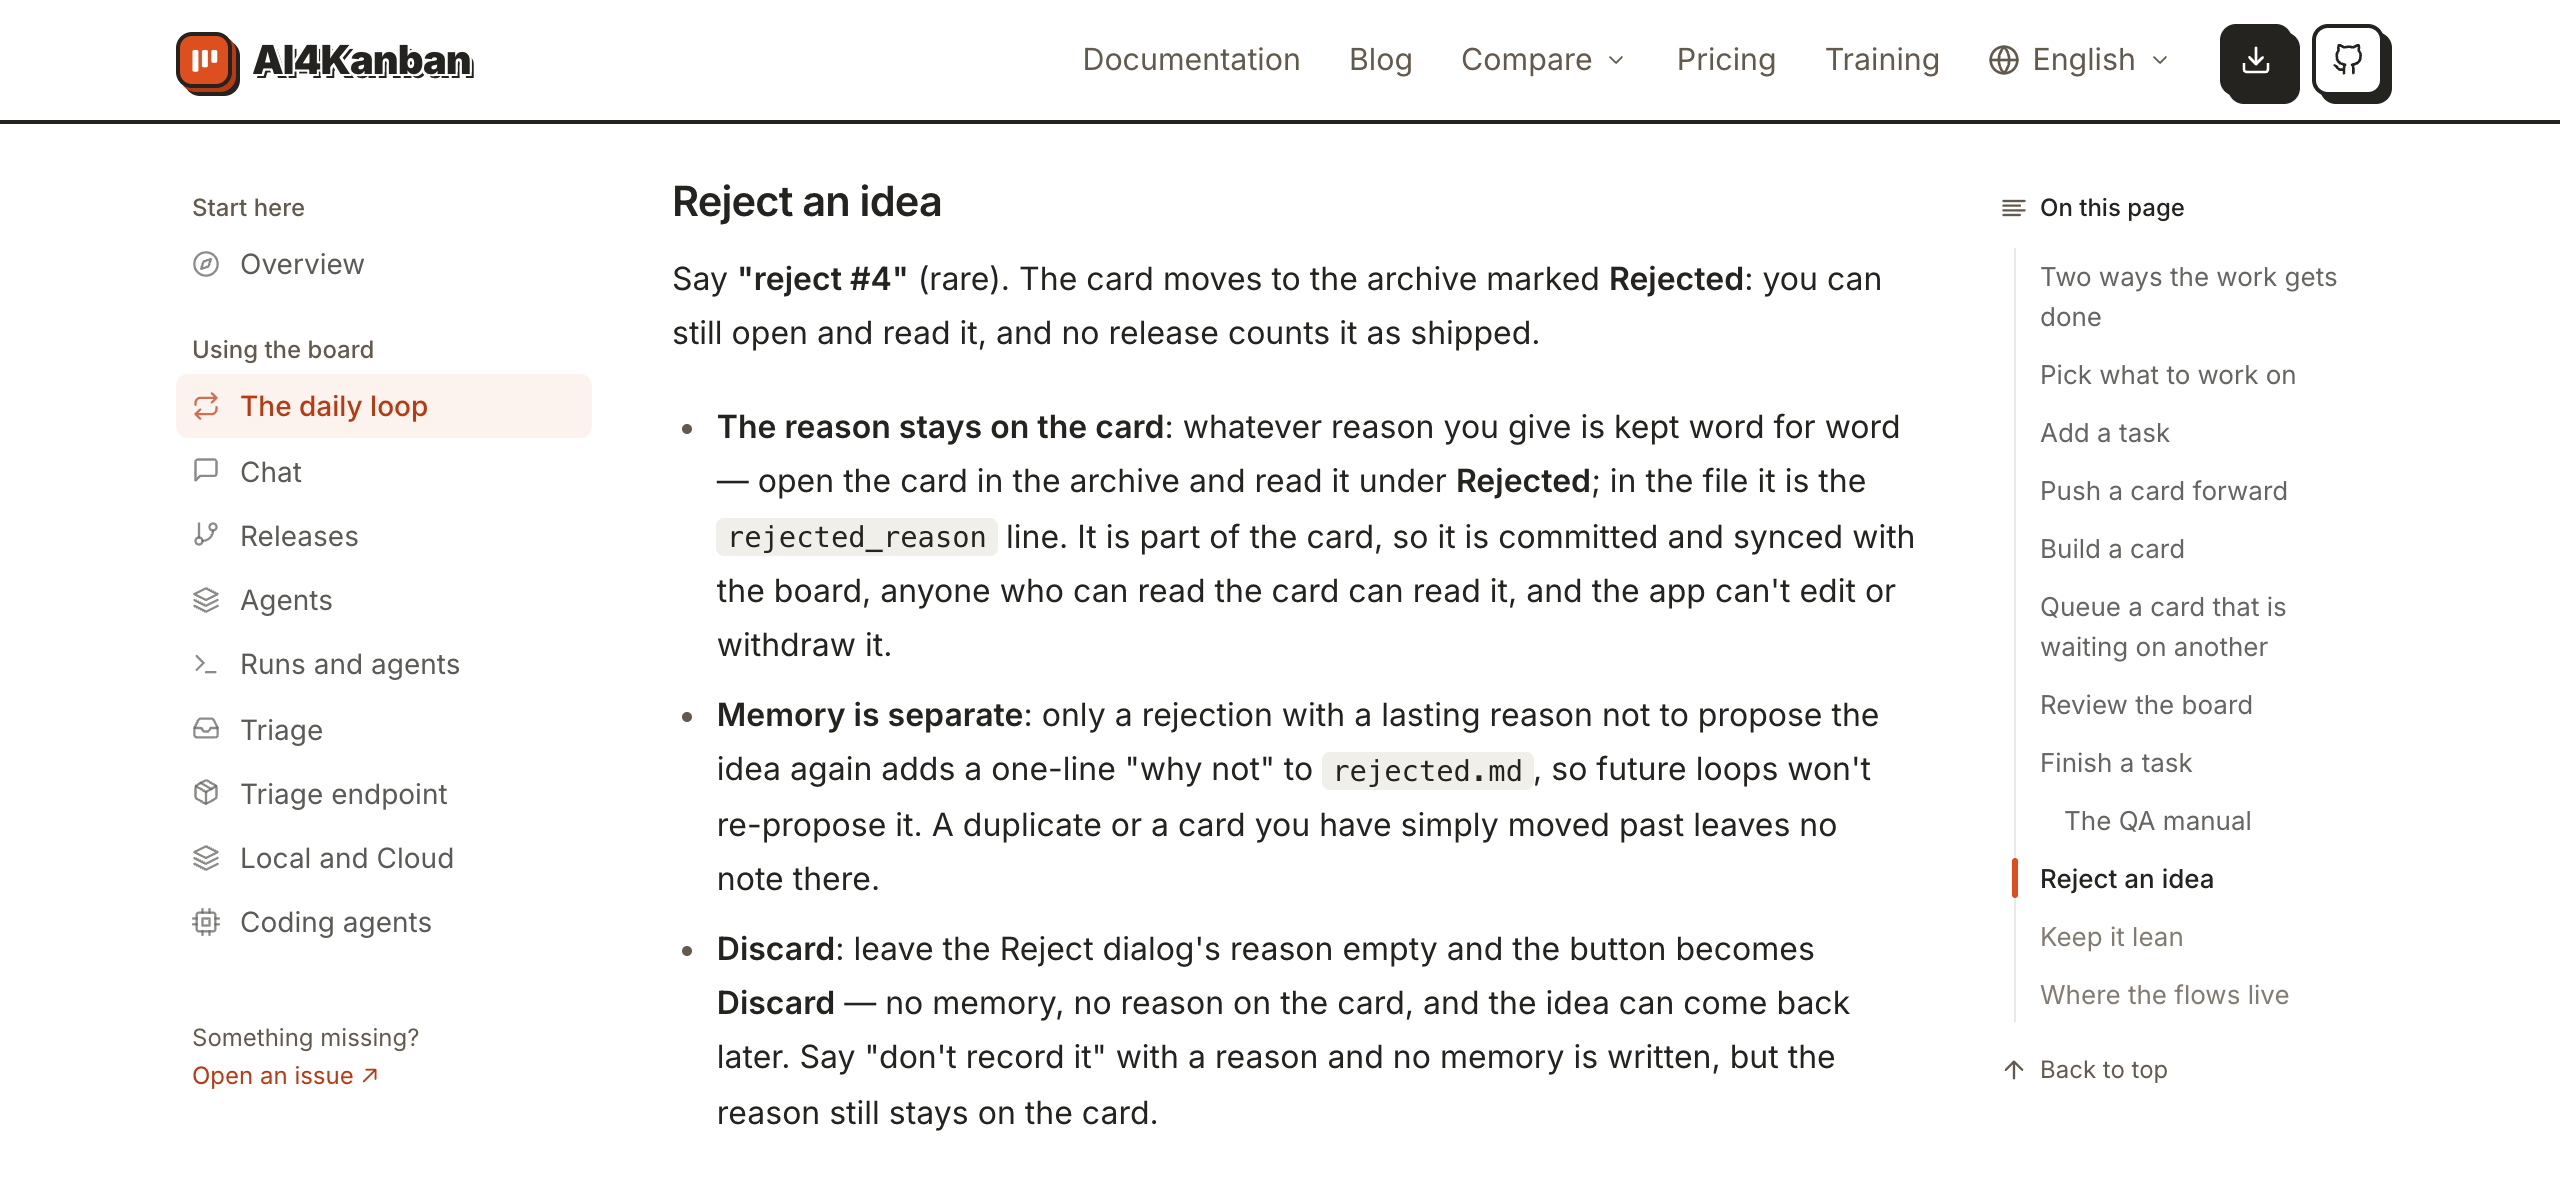
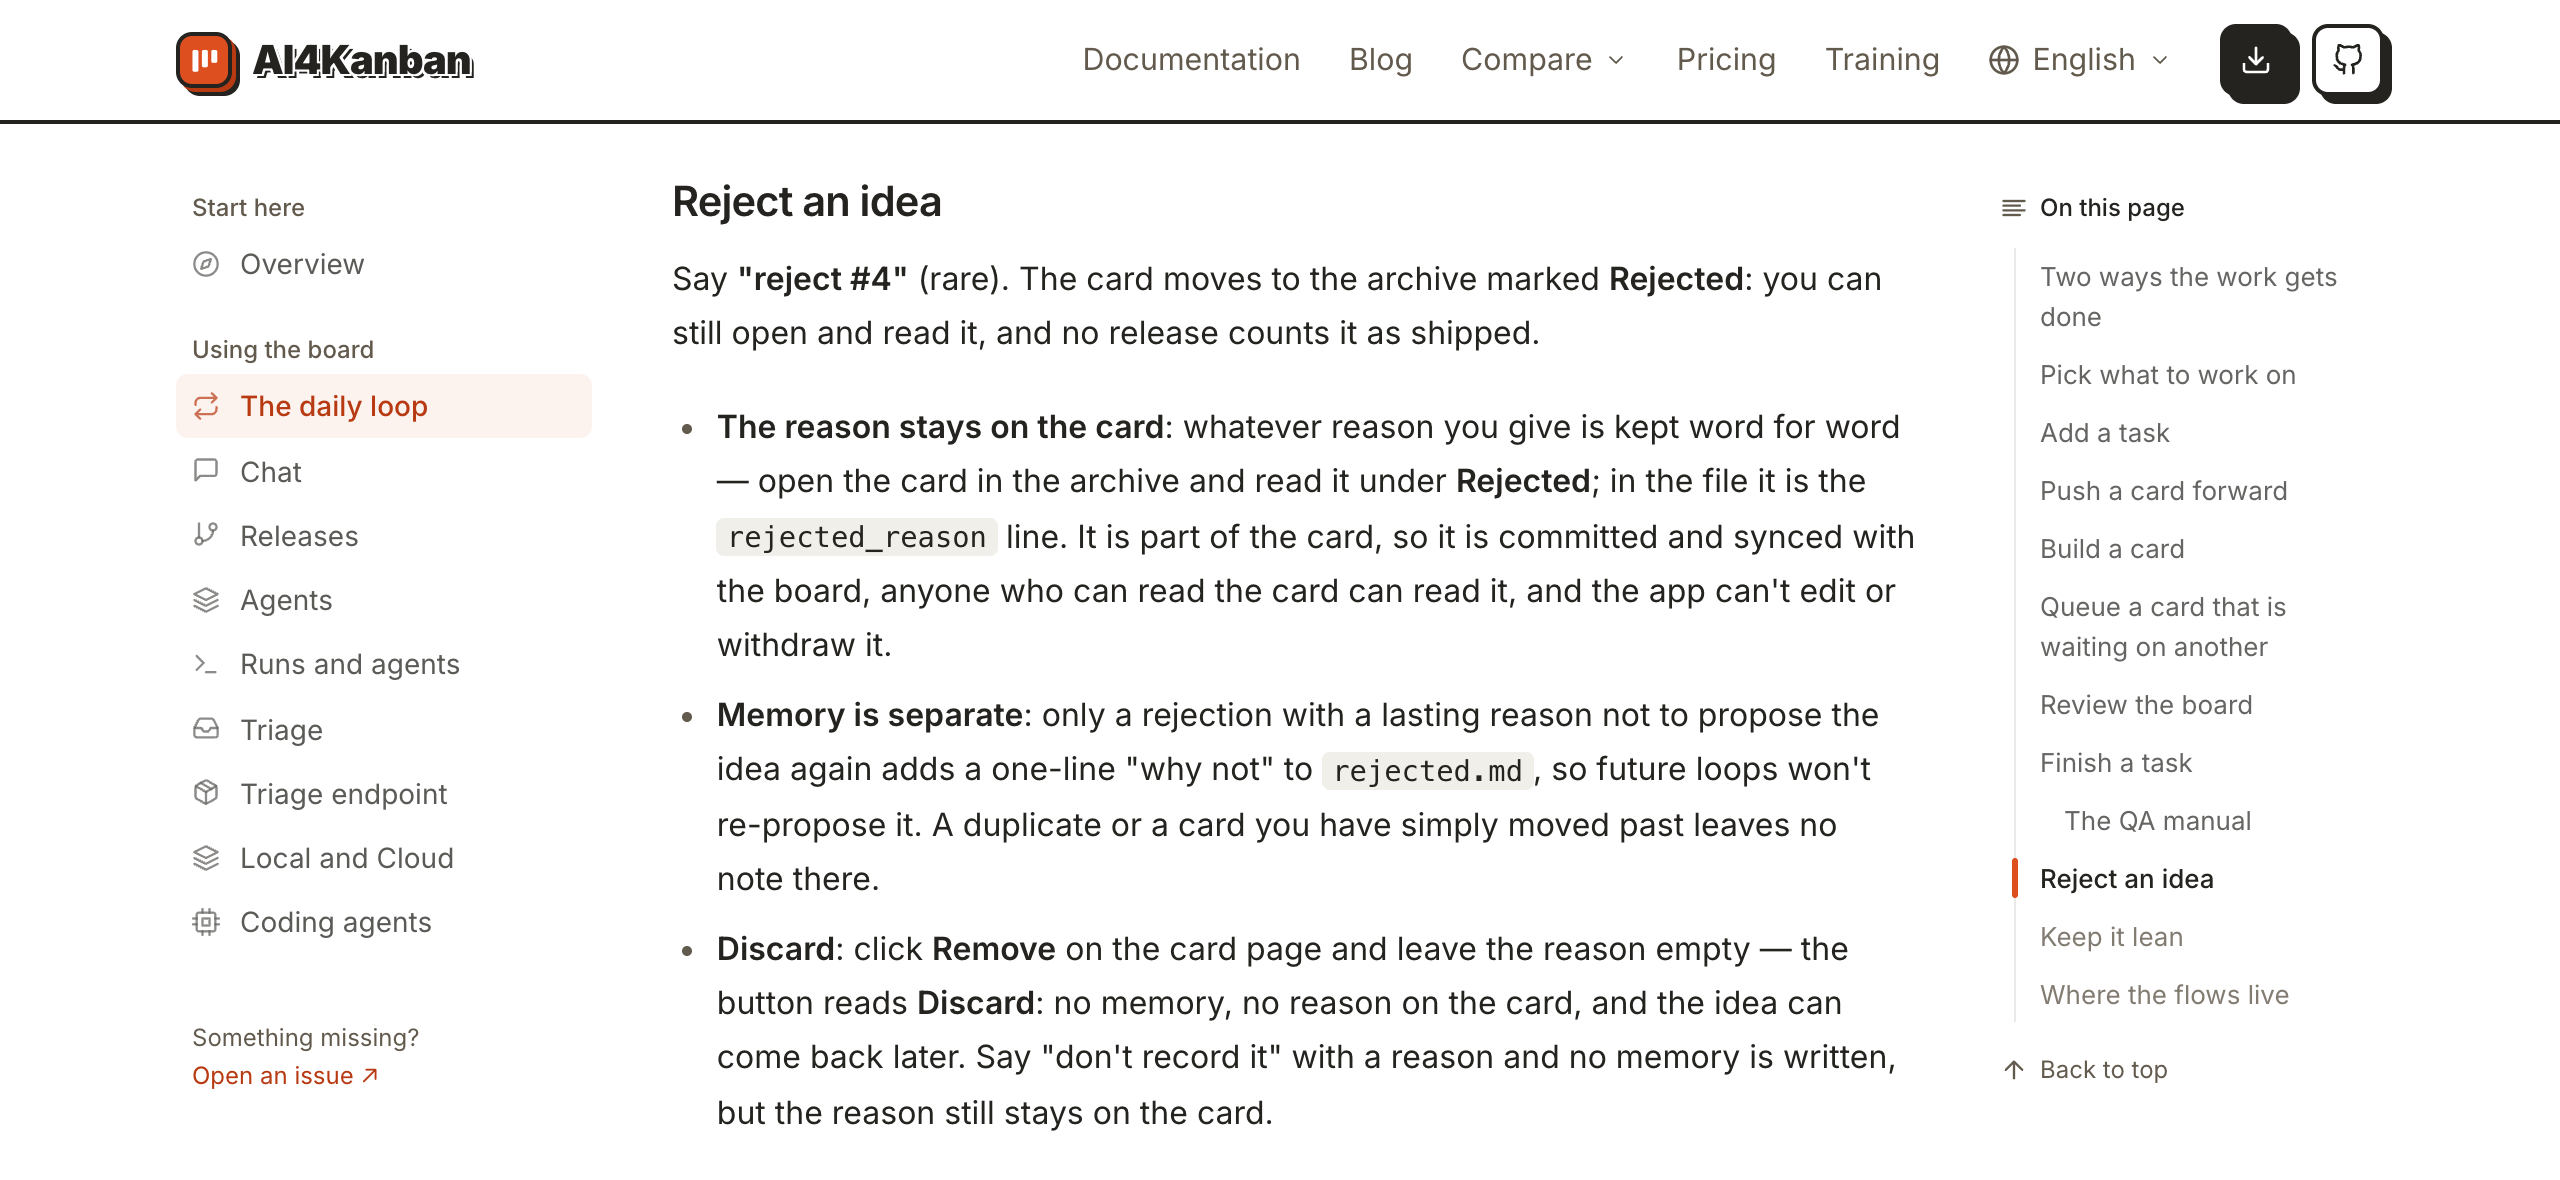
Rename the card page's Reject button to Remove, matching its dialog title (#1403)
delivery c8auye5f

Changed region(s): [[0.2812, 0.7932, 0.75, 0.9763]]

diff --git a/kanban-ui/i18n/card/en.ts b/kanban-ui/i18n/card/en.ts
@@ -60,7 +60,7 @@ const en: CardCopy = {
     buildAgain: "Build again",
     buildAgainHint: "Build this card again in the same delivery, once what stopped it is sorted out",
     archive: "Archive",
-    reject: "Reject",
+    reject: "Remove",
     startFailed: "could not start the agent",
     scheduleFailed: "could not schedule the action",
     unscheduleFailed: "could not take the schedule off",

diff --git a/kanban-ui/i18n/card/zh.ts b/kanban-ui/i18n/card/zh.ts
@@ -58,7 +58,7 @@ const zh: CardCopy = {
     buildAgain: "再次构建",
     buildAgainHint: "处理好导致停下的问题后，在这次交付里重新构建",
     archive: "归档",
-    reject: "否决",
+    reject: "移除",
     startFailed: "Agent 未能启动",
     scheduleFailed: "未能加入计划",
     unscheduleFailed: "未能取消计划",

diff --git a/docs/qa/local-ui/decide-whether-to-give-a-reason-when-rejecting-a-card/case.md b/docs/qa/local-ui/decide-whether-to-give-a-reason-when-rejecting-a-card/case.md
@@ -1,4 +1,4 @@
-# 否决一张卡时决定写不写原因
+# 移除一张卡时决定写不写原因
 
 ## Setup
 
@@ -9,27 +9,28 @@
 ## Steps
 
 1. 打开卡片 #2 的页面。
-   操作栏右端是描红边的「否决」按钮，与「开发」「澄清」「修订」分开。
-   ![卡片页的否决按钮](01-card-page.png)
+   操作栏右端是描红边的「移除」按钮，与「开发」「澄清」「修订」分开；页面上没有叫「否决」的按钮。
+   ![卡片页的移除按钮](01-card-page.png)
 
-2. 点「否决」。
-   弹出「移除 #2」对话框：一句「这张卡片将移出看板。」，一个占位符为「原因（可选）…」的输入框，输入框下一行提示「直接丢弃，或写下原因，未来会避开这类任务。」；输入框空着时确认按钮写「丢弃」。
-   ![空着的否决对话框](02-dialog-empty.png)
+2. 点「移除」。
+   弹出「移除 #2」对话框，标题与刚点的按钮同名：一句「这张卡片将移出看板。」，一个占位符为「原因（可选）…」的输入框，输入框下一行提示「直接丢弃，或写下原因，未来会避开这类任务。」；输入框空着时确认按钮写「丢弃」。
+   ![空着的移除对话框](02-dialog-empty.png)
 
 3. 在输入框里输入「不在范围内：对外分享走 Cloud。」。
    确认按钮变成「否决」；提示语原样留在输入框下，不随输入变化。
-   ![写了原因的否决对话框](03-reason-typed.png)
+   ![写了原因的移除对话框](03-reason-typed.png)
 
-4. 换成英文界面，再打开 `/2` 点「Reject」。
+4. 换成英文界面，再打开 `/2` 点「Remove」。
    对话框标题「Remove #2」，输入框的占位符是「Reason (optional)…」，提示是「Discard it, or add a reason so future planning avoids tasks like this.」，空着时按钮写「Discard」。
-   ![英文界面的否决对话框](04-english.png)
+   ![英文界面的移除对话框](04-english.png)
 
 ## Feedback
 
-- **上下说法一致了**：占位符只问「原因（可选）」，不再替你先选「否决」；空着是「丢弃」、写了才是「否决」，输入框、提示语和按钮三处读下来是同一件事。
-- **一眼读完**：占位符四个字，提示一行，两个选择并列；不用先弄懂「留空」是什么意思。
-- **占位符变得很泛**：「原因」前面没有动词，要靠标题「移除 #2」和下面的提示才知道是什么的原因；扫一眼够用，单看这一行不够。
-- **三个词指一件事**：按钮叫「否决」，标题叫「移除」，空着时确认叫「丢弃」；第一次点进来要停一下才明白这是同一个动作的两种结果。
+- **入口和标题对上了**：点「移除」，弹出「移除 #2」，不用再想「否决」和「移除」是不是一回事；入口也不再替你先选结果。
+- **两个结果只在确认按钮上分开**：空着是「丢弃」、写了才是「否决」，输入框、提示语和按钮三处读下来是同一件事。
+- **「否决」藏深了**：卡片页上找不到这个词，要打开对话框并写下原因才出现；照着文档里「reject」来找按钮的人第一眼会找不到。
+- **「移除」听起来像删除**：红边加叉号的「移除」看不出卡片其实进了归档、还能再打开；对话框里的「移出看板」也没说去了哪。
+- **占位符很泛**：「原因」前面没有动词，要靠标题和下面的提示才知道是什么的原因；扫一眼够用，单看这一行不够。
 - **没说谁能看到**：原因会原样留在归档卡片上并随看板同步，对话框里看不出来，写的时候不会想到措辞。
 - **丢弃的后果没说**：提示不提丢弃的想法以后可能被重新提出，只写了丢弃的人不知道它会回来。
-- **没有跑到的**：没有点确认，否决和丢弃之后的结果不在这个用例里；手机宽度（对话框变成整页）和 `cloud-ui` 里的同一个对话框也没有验证。
+- **没有跑到的**：没有点确认，否决和丢弃之后的结果不在这个用例里；交付进行中按钮变灰的样子、手机宽度（对话框变成整页）和 `cloud-ui` 里的同一个按钮也没有验证。

diff --git a/docs/qa/docs/read-what-happens-to-a-rejection-reason-in-the-docs/case.md b/docs/qa/docs/read-what-happens-to-a-rejection-reason-in-the-docs/case.md
@@ -15,8 +15,8 @@
    页面滚到这一节，目录里该项高亮。开头一句说卡片进归档并标为 **Rejected**，下面三条：
    「The reason stays on the card」——原因原样留在卡上，在归档里打开这张卡、**Rejected** 下面读到，文件里是 `rejected_reason` 一行，随看板提交和同步，能读卡的人都能读到，应用里不能修改或撤回；
    「Memory is separate」——只有值得长期记住的否决才在 `rejected.md` 留一行；
-   「Discard」——对话框里原因留空，按钮变成 **Discard**，不写记忆、卡上没有原因；说「don't record it」但给了原因，原因仍留在卡上。
-   整页不再出现「Just discard」。
+   「Discard」——在卡片页点 **Remove**、原因留空，按钮写 **Discard**，不写记忆、卡上没有原因，这个想法以后还可能回来；说「don't record it」但给了原因，原因仍留在卡上。
+   整页不再出现「Just discard」和「Reject dialog」。
    ![Reject an idea 一节](02-reject-an-idea.png)
 
 ## Feedback
@@ -25,6 +25,8 @@
 - **「会被别人看到」埋在句中**：这是读者最该提前知道的一点，却排在第一条的后半句，没有单独成句，也没有提示「所以别写不想公开的话」。
 - **「不能撤回」后面没有出路**：只说应用里改不了，没说可以直接改卡片文件里的那一行；写错了的人读到这里是卡住的。
 - **和界面的叫法差一点**：文档说「read it under **Rejected**」，界面上那个框的标题是「Reason」；照着找不会找错，但词对不上。
-- **「Reject dialog」没说在哪**：整节以「说 reject #4」开头，第三条突然提到对话框，没用过看板应用的读者不知道它从哪个按钮来。
+- **按钮有了出处**：第三条现在说在卡片页点 **Remove**，和界面上的按钮同名，照着能找到。
+- **小节叫 Reject，按钮叫 Remove**：标题和开头讲「reject #4」，到第三条才出现 **Remove**，没说这两个是同一个动作；想在界面上否决的人要自己推出来「点 Remove 再写原因」。
+- **第三条一句里两个符号**：「— the button reads **Discard**: no memory…」先破折号后冒号，要读两遍才分清哪段是结果。
 - **「don't record it」那句绕**：丢弃、不写记忆、原因仍留在卡上，三件事挤在一句话里，要读两遍。
-- **没有跑到的**：窄屏下的这一节、从站内搜索进到这一节；`kanban-ui/README.md` 操作表里 Reject 一行同样改了，它只在仓库和 npm 页面上被读到，这次没有截证据。
+- **没有跑到的**：窄屏下的这一节、从站内搜索进到这一节；`kanban-ui/README.md` 里三处按钮名同样改成了 Remove，它只在仓库和 npm 页面上被读到，这次没有截证据。

diff --git a/kanban-ui/README.md b/kanban-ui/README.md
@@ -317,7 +317,7 @@ running badge and a read-only live log.
 | **Build again** | While a delivery has stopped, e.g. on work it could not commit or files changed outside the board. |
 | **Continue delivery** | When a delivery's next session never started. |
 | **Archive** | Once every todo is checked (a group root: every subtask resolved). Never on a recurring card. |
-| **Reject** | Always. The card moves to the archive, marked **Rejected**. Leave the reason empty to discard it: the same, without writing memory. |
+| **Remove** | Always. The card moves to the archive, marked **Rejected**. Leave the reason empty to discard it: the same, without writing memory. |
 
 A card has one session at a time. A session outside a delivery never commits: read `git diff` and
 commit yourself.
@@ -332,7 +332,7 @@ several sessions under one delivery id, shown on the card and in `akb run list`.
   [Where a delivery's code goes](#where-a-deliverys-code-goes).
 - **It builds the card as approved**: the requirements are copied when it starts, so later edits
   to the card don't change it.
-- **The card is held**: Edit, Refine, Resolve, Archive and Reject are off, except **Resolve**
+- **The card is held**: Edit, Refine, Resolve, Archive and Remove are off, except **Resolve**
   while the delivery waits on you. Priority, ROI, release, modules and todos stay editable.
 - **Controls**: while a run is live, **Stop run** ends that run only. Once nothing runs,
   **Resume** continues the delivery and **Discard** ends it, removing its worktree and branch
@@ -503,7 +503,7 @@ A group task is a folder with a `root.md` and subtasks. The root is a tracking c
 
 - **No Implement**: the group is finished by finishing its subtasks.
 - **Archive** appears once every subtask is done or rejected, and closes the whole group. A root
-  with no subtasks is closed with **Reject**.
+  with no subtasks is closed with **Remove**.
 - **Release** moves the whole group.
 
 The root records each outcome: an archived subtask's line is ticked, a rejected one struck
